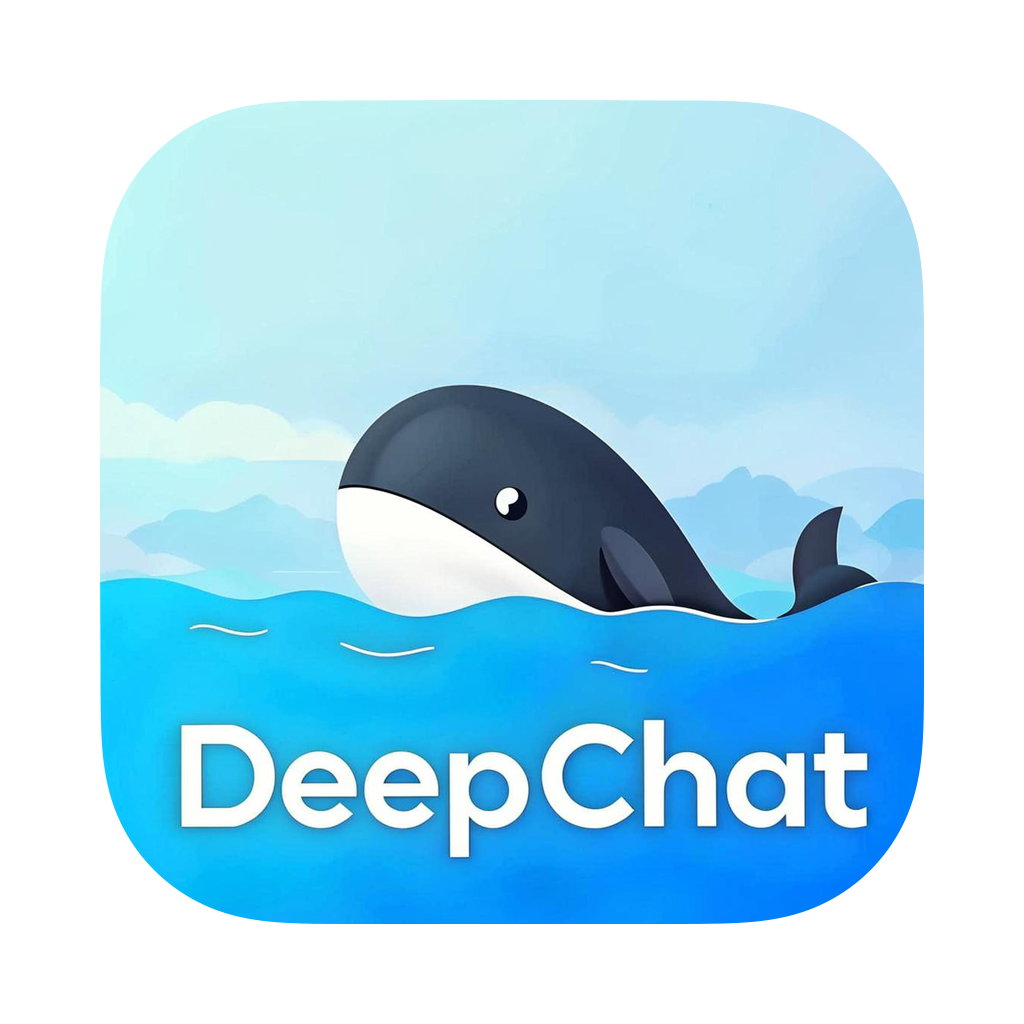
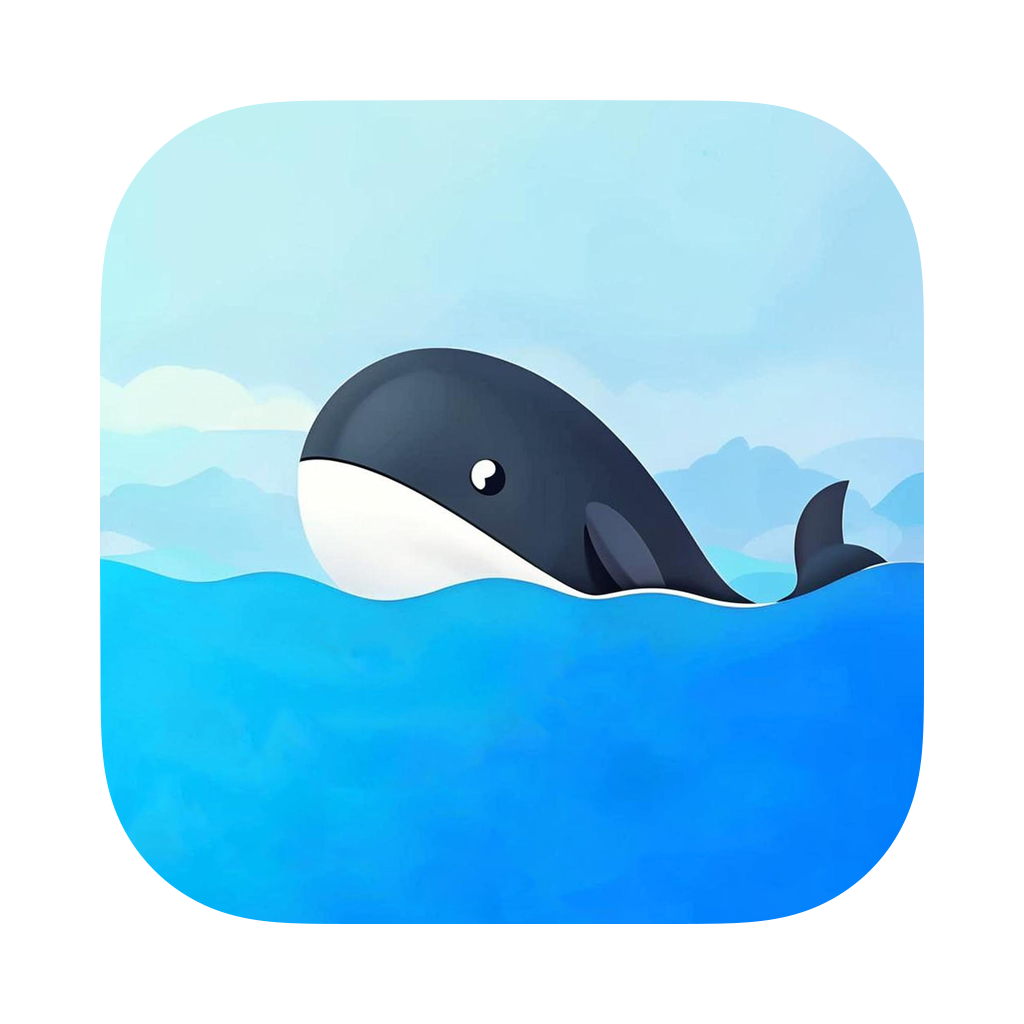
update desc

Changed region(s): [[0.0938, 0.3125, 0.9062, 0.6562], [0.1562, 0.6875, 0.875, 0.8438]]

diff --git a/docs/index.html b/docs/index.html
@@ -40,192 +40,12 @@
 
             <div id="content_views" class="htmledit_views">
                 <p style="text-align: center">
-                    <img alt="" src="./pakeplus.png" width="197" />
+                    <img alt="" src="./DeepChat.png" width="197" />
                 </p>
                 <p>
-                    PakePlus is an open-source and free software that supports
-                    Mac, Windows, and Linux, and will soon support Android and
-                    iOS. There is no need to install complex dependencies
-                    locally; just a GitHub Token is enough. Check the README for
-                    popular packages and custom development information. Feel
-                    free to share your suggestions in the
-                    <a
-                        href="https://github.com/Sjj1024/PakePlus/discussions"
-                        title="Discussion Area"
-                        >discussion area</a
-                    >. Open-source link:
-                    <a
-                        href="https://github.com/Sjj1024/PakePlus"
-                        title="https://github.com/Sjj1024/PakePlus"
-                        >https://github.com/Sjj1024/PakePlus</a
-                    >
-                </p>
-                <h2 id="%E7%89%B9%E6%80%A7"><a name="t2"></a>Features</h2>
-                <p>
-                    - 🎐 Approximately 20 times smaller than an Electron package
-                    (about 5M!)
-                </p>
-                <p>
-                    - 🚀 Built with Rust Tauri, PakePlus is lighter and faster
-                    than JS-based frameworks.
-                </p>
-                <p>
-                    - 📦 Rich built-in feature packages—supports shortcuts,
-                    immersive windows, minimal customization.
-                </p>
-                <p>
-                    - 👻 PakePlus is a simple tool—using Tauri as a replacement
-                    for old packaging methods (although PWA is also sufficient).
-                </p>
-                <p>
-                    - 🤗 PakePlus is easy to use; just one GitHub Token allows
-                    you to obtain a desktop app.
-                </p>
-                <p>
-                    - 🌹 No need to install any complex dependencies locally, as
-                    GitHub Action enables cloud-based auto-packaging.
-                </p>
-                <p>
-                    - 🧑🤝🧑 Internationalization support, very user-friendly for
-                    global users, and automatically follows your computer's
-                    system language.
-                </p>
-                <p></p>
-                <h2><a name="t3"></a>Get a GitHub Token</h2>
-                <p>
-                    Why do you need a GitHub Token? Because the compilation and
-                    packaging process relies entirely on the GitHub platform,
-                    and your web code to be packaged is also managed on GitHub,
-                    so a GitHub Token is needed to operate these tasks, which
-                    requires specific permissions for different versions of the
-                    token.
-                </p>
-                <h3><a name="t4"></a>1. Beta Version Token</h3>
-                <p>Permission Description:</p>
-                <p>All repositories: To fork an original template repository</p>
-                <p>Actions: Operate GitHub Action</p>
-                <p>Administration: Fork and manage repository files</p>
-                <p>Contents: Add/delete/modify/search repository content</p>
-                <p>Issues: Submit issues to PakePlus</p>
-                <p>Workflows: Used to compile and package your software</p>
-                <p>
-                    First, log in to your GitHub account, then click the link to
-                    get it:
-                    <a
-                        href="https://github.com/settings/tokens?type=beta"
-                        title="https://github.com/settings/tokens?type=beta"
-                        >https://github.com/settings/tokens?type=beta</a
-                    >, or go to
-                    <a href="https://github.com/settings" title="&nbsp;Settings"
-                        >&nbsp;Settings</a
-                    >
-                    &gt;&nbsp;<a
-                        href="https://github.com/settings/apps"
-                        title="Developer Settings"
-                        >Developer Settings</a
-                    >&nbsp; to obtain it:
-                </p>
-                <p>
-                    <img alt="" src="./token1.png" width="1200" />
-                </p>
-                <p>Generate new token:</p>
-                <p>
-                    Enter a name for the token, set the expiration date to
-                    “Never,” write any description, and select All repositories.
-                </p>
-                <p>
-                    <img alt="" src="./token2.png" width="1200" />
-                </p>
-                <p>
-                    Configure permissions: Assign permissions marked in the red
-                    box, Access selection: &nbsp;&nbsp;Read and write&nbsp;
-                </p>
-                <p>
-                    <img alt="" src="./token3.png" width="1200" />
-                </p>
-                <p>
-                    <img alt="" src="./token4.png" width="1200" />
-                </p>
-                <p>
-                    <img alt="" src="./token5.png" width="1200" />
-                </p>
-                <p>
-                    <img alt="" src="./token7.png" width="1200" />
-                </p>
-                <p>Then click Generate token at the bottom:&nbsp;</p>
-                <p>
-                    <img alt="" src="./token8.png" width="1200" />
-                </p>
-                <p>Copy the token you received into PakePlus:</p>
-                <p>
-                    <img alt="" src="./token9.png" width="1200" />
-                </p>
-                <p></p>
-                <h3><a name="t5"></a>2. Classic Version Token</h3>
-                <p>Permission Description:</p>
-                <p>repo: Fork and manage template code</p>
-                <p>workflow: Compile and release your software</p>
-                <p></p>
-                <p>
-                    First, log in to your GitHub account, then click the link to
-                    get it:
-                    <a
-                        href="https://github.com/settings/tokens"
-                        title="https://github.com/settings/tokens"
-                        >https://github.com/settings/tokens</a
-                    >, or go to
-                    <a href="https://github.com/settings" title="&nbsp;Settings"
-                        >&nbsp;Settings</a
-                    >
-                    &gt;&nbsp;<a
-                        href="https://github.com/settings/apps"
-                        title="Developer Settings"
-                        >Developer Settings</a
-                    >&nbsp; to obtain it:
-                </p>
-                <p>
-                    <img alt="" src="./token10.png" width="1200" />
-                </p>
-                <p>
-                    Only the following permissions are needed: repo and workflow
-                </p>
-                <p>
-                    <img alt="" src="./token11.png" width="1200" />
-                </p>
-                <p>Then copy the token you received into PakePlus:</p>
-                <p>
-                    <img alt="" src="./token12.png" width="1200" />
-                </p>
-                <p>If the Token is usable, it will show as successful:</p>
-                <p>
-                    <img alt="" src="./token13.png" width="1200" />
-                </p>
-                <p>
-                    After filling in the Token into PakePlus, it's best to test
-                    if it's usable before proceeding with the next steps. &nbsp;
-                </p>
-                <p></p>
-                <h2><a name="t6"></a>Create Project and Configure</h2>
-                <p>
-                    The project name must be in English. After entering it,
-                    click Confirm and wait a few minutes. On the next page,
-                    configure the website address and APP name you want to
-                    package, and upload an Icon. It is best to prepare a square
-                    png icon locally for direct upload. Otherwise, cropping will
-                    occur, which might not yield the desired result.
-                </p>
-                <p>
-                    <img alt="" src="./token14.png" width="1200" />
-                </p>
-                <p>
-                    After configuring the project, you can click Preview, which
-                    will open a window displaying the final effect of your
-                    program. If it opens correctly, everything is fine. You can
-                    also make some window size configurations to make the page
-                    more user-friendly.
-                </p>
-                <p>
-                    <img alt="" src="./token15.png" width="1200" />
+                    DeepSeek, ChatGPT, and other centralized clients can be
+                    directly integrated using your API key, supporting voice and
+                    video conversation capabilities.
                 </p>
             </div>
         </div>

diff --git a/README.md b/README.md
@@ -1,39 +1,64 @@
-# DeepDance
+<h4 align="right"> 
+<a href="./docs/README.md">English</a> 
+<a href="./docs/README_ZH.md" 
+style="margin: 0 10px;" >简体中文</a> 
+<a href="./docs/README_JP.md">日本语</a>
+</h4>  
+<p align="center">
+    <img src="./docs/deepchat.png" width=138/>
+</p>  
+<h1 align="center">DeepChat</h1>  
+<p align="center">
+<strong>
+DeepSeek, ChatGPT, and other centralized clients can be directly integrated using your API key, supporting voice and video conversation capabilities.
+</strong>
+</p>
 
-DeepSeek And Bytedance volcengine AI Client
+## FAQ
 
-# Features
+1. Mac users may see an “App is damaged” warning on installation. click cancel and Run the following command, then reopen the app:
 
--   DeepSeek 的 AI 模型
--   字节跳动的 AI 模型
--   支持多轮对话
--   支持上下文管理
--   支持 Markdown 格式化输出
--   支持图片生成
--   支持语音识别
--   支持语音合成
--   支持语音识别
--   支持语音对话
--   支持视频对话
-
-# 安装
-
-```bash
-pnpm install
+```sh
+sudo xattr -r -d com.apple.quarantine /Applications/DeepChat.app
 ```
 
-# Prompt
+1. If you encounter any issues while using the program, please download the latest version, as versions developed before 2025 were based on Tauri v1.0. In 2025, Tauri was upgraded to v2.0. If the latest version still has issues, please submit an issue with detailed information so that we can update and resolve it more quickly.
+
+## Developing DeepChat
+
+If you want to develop DeepChat locally, ensure your environment is prepared beforehand. Make sure Rust `>=1.63` and Node `>=16` (e.g., `16.18.1`) are installed on your computer. For installation guidance, please refer to the [Tauri Documentation](https://v2.tauri.app/).
+
+If you’re unfamiliar with these, it’s best to try the one-click packaging tool above.
+
+```sh
+# Install dependencies
+pnpm i
+
+# Local development [Right-click to open debug mode.]
+pnpm run dev
+
+# Package the app
+pnpm run build
+
 
 ```
-我现在要使用vue3和ts开发一个网页端AI对话和语音对话软件，功能需求如下：
-1.在配置页面，支持动态添加deepseek，chatgpt，豆包等自定义大模型的api，可以输入自定义大模型名称和apikey和baseUrl地址。
-2.普通对话页面，在聊天输入框左侧，可以通过一键切换来实现使用不同的大模型对话功能。
-3.使用pinia来存储每个模型的独立配置，每个模型的对话内容也要独立保存到本地，并且可以删除，删除后，对话内容也一并删除。
-4.并且还想实现两个模型直接对话的能力，当选择了聊天对战模式，就需要选择两个要对战的模型， 然后输入一个话题，随机选择一个模型为先手，就可以开始聊天对战了。
-5.还要增加一个能力对比的页面，在能力对比页面实现多模型对话返回的结果对比的能力，当选择了对比模式，只有一个输入框输入内容，就可以同时和三个模型对话，每个模型单独在一个对话记录框展示，在页面上支持添加要对比的模型，最多添加三个。
-6.为每个函数都加上代码注释。
 
-这个软件的架构该怎么设计实现？给出详细的架构设计文档，还有每个文件的详细说明。并给出每个文件的代码。
-```
+<!-- ## Support
 
-# 架构设计
+# 1. wechat and group
+
+# <p align="center" style="display:flex; justify-content: flex-start;" >
+
+# <img src="./docs/mywx.png" width=300/>
+
+# <img src="./docs/wxcode.png" width=300/>
+
+# </p>
+
+# 1. If DeepChat has brought joy to your life, feel free to support it.
+
+# <p align="center" style="display:flex; justify-content: flex-start;">
+
+# <img src="./docs/pay.png" width=620/>
+
+# </p> -->

diff --git a/docs/Prompt.md b/docs/Prompt.md
@@ -1,0 +1,39 @@
+# DeepDance
+
+DeepSeek And Bytedance volcengine AI Client
+
+# Features
+
+-   DeepSeek 的 AI 模型
+-   字节跳动的 AI 模型
+-   支持多轮对话
+-   支持上下文管理
+-   支持 Markdown 格式化输出
+-   支持图片生成
+-   支持语音识别
+-   支持语音合成
+-   支持语音识别
+-   支持语音对话
+-   支持视频对话
+
+# 安装
+
+```bash
+pnpm install
+```
+
+# Prompt
+
+```
+我现在要使用vue3和ts开发一个网页端AI对话和语音对话软件，功能需求如下：
+1.在配置页面，支持动态添加deepseek，chatgpt，豆包等自定义大模型的api，可以输入自定义大模型名称和apikey和baseUrl地址。
+2.普通对话页面，在聊天输入框左侧，可以通过一键切换来实现使用不同的大模型对话功能。
+3.使用pinia来存储每个模型的独立配置，每个模型的对话内容也要独立保存到本地，并且可以删除，删除后，对话内容也一并删除。
+4.并且还想实现两个模型直接对话的能力，当选择了聊天对战模式，就需要选择两个要对战的模型， 然后输入一个话题，随机选择一个模型为先手，就可以开始聊天对战了。
+5.还要增加一个能力对比的页面，在能力对比页面实现多模型对话返回的结果对比的能力，当选择了对比模式，只有一个输入框输入内容，就可以同时和三个模型对话，每个模型单独在一个对话记录框展示，在页面上支持添加要对比的模型，最多添加三个。
+6.为每个函数都加上代码注释。
+
+这个软件的架构该怎么设计实现？给出详细的架构设计文档，还有每个文件的详细说明。并给出每个文件的代码。
+```
+
+# 架构设计
